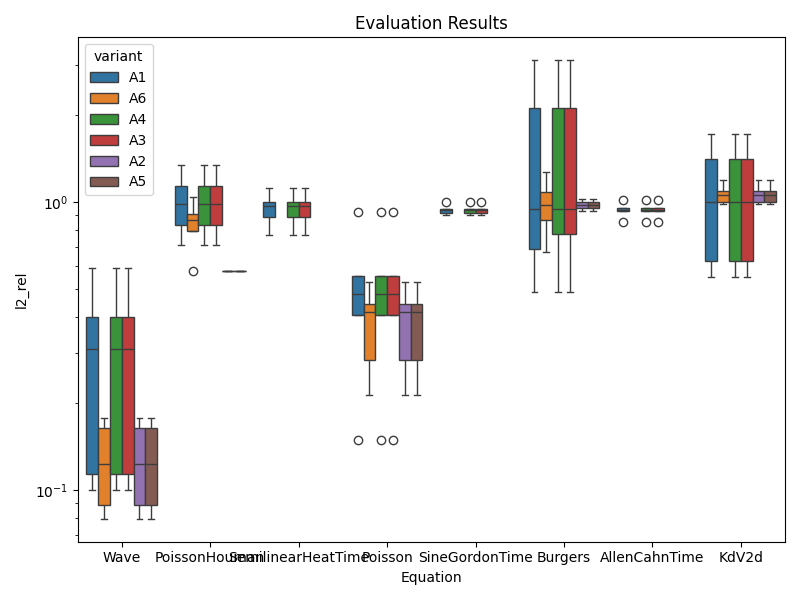
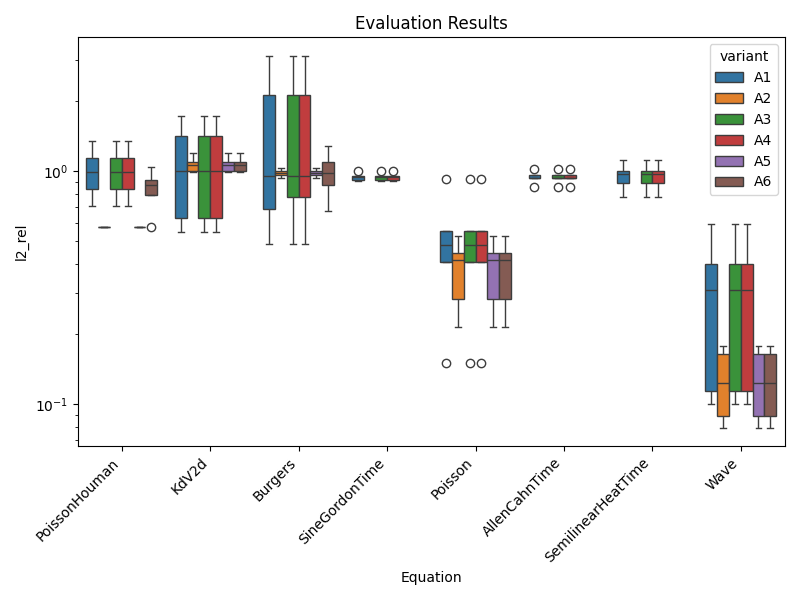
fixed  boxplot xticks and legend

diff --git a/aggregate_results.py b/aggregate_results.py
@@ -48,8 +48,9 @@ def aggregate_results(results_dir: str = "_results") -> pd.DataFrame:
 def plot_boxplot(df, metric_col, out_file="aggregate_bw_plot.png"):
     """Create a box plot of ``metric_col`` grouped by eqn_name and variant."""
     plt.figure(figsize=(8, 6))
-    sns.boxplot(data=df, x="eqn_name", y=metric_col, hue="variant")
+    sns.boxplot(data=df.sort_values(by="variant"), x="eqn_name", y=metric_col, hue="variant")
     plt.yscale('log')
+    plt.xticks(rotation=45, ha="right")
     plt.xlabel("Equation")
     plt.ylabel(metric_col)
     plt.title("Evaluation Results")
